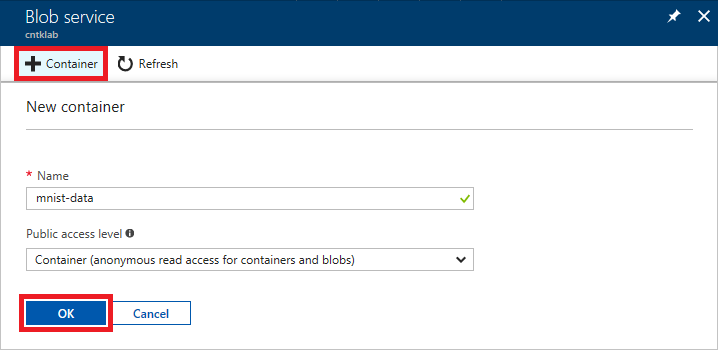
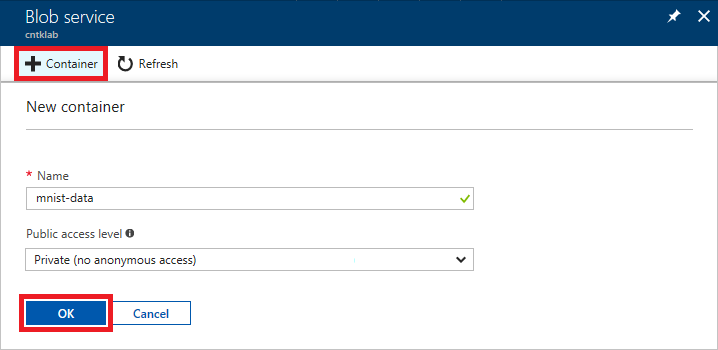
Checked in final draft of second 200 lab

Changed region(s): [[0.0306, 0.7143, 0.4903, 0.7714]]

diff --git a/Neural Networks with CNTK (300)/2 - Process/readme.md b/Neural Networks with CNTK (300)/2 - Process/readme.md
@@ -1,8 +1,8 @@
 ![](Images/header.png)
 
-In the [previous lab](#), you uploaded four files comprising the [MNIST database](http://yann.lecun.com/exdb/mnist/) to Azure blob storage. MNIST is a popular dataset for training and evaluating machine-learning handwriting-recognition models. It contains 60,000 scanned and normalized images of the digits 0 through 9 drawn by high school students. It also includes a set of 10,000 test images for evaluating a model's accuracy.
+In the [previous lab](#), you uploaded four files comprising the [MNIST database](http://yann.lecun.com/exdb/mnist/) to Azure blob storage. MNIST is a popular dataset for training and evaluating machine-learning models that perform handwriting recognition. It contains 60,000 scanned and normalized images of the digits 0 through 9 drawn by high school students. It also includes a set of 10,000 test images for evaluating a model's accuracy.
 
-In this lab, you will prepare the data to be used in a machine-learning model by converting it into a format supported by the [Microsoft Cognitive Toolkit](https://www.microsoft.com/en-us/research/product/cognitive-toolkit/), also known as CNTK. And you will Microsoft's Azure Machine Learning Workbench, a free cross-platform tool for wrangling data and building machine-learning models, to do the conversion.
+In this lab, you will prepare the data to be used in a machine-learning model by converting it into a format supported by the [Microsoft Cognitive Toolkit](https://www.microsoft.com/en-us/research/product/cognitive-toolkit/), also known as CNTK. And you will use Microsoft's Azure Machine Learning Workbench, a free cross-platform tool for wrangling data and building machine-learning models, to do the conversion.
 
 ![](Images/road-map-2.png)
 
@@ -11,9 +11,9 @@ In this lab, you will prepare the data to be used in a machine-learning model by
 
 In this hands-on lab, you will learn how to:
 
-- tk
-- tk
-- tk
+- Write Python code to wrangle data stored in Azure blob storage
+- Execute that code in Docker containers using Azure Machine Learning Workbench
+- Format labeled image data for input to CNTK
 
 <a name="Prerequisites"></a>
 ### Prerequisites ###
@@ -33,15 +33,15 @@ The following are required to complete this hands-on lab:
 This hands-on lab includes the following exercises:
 
 - [Exercise 1: Install Workbench and create a project](#Exercise1)
-- [Exercise 2: Customize the project files](#Exercise2)
-- [Exercise 3: Convert the data into CNTK format](#Exercise3)
+- [Exercise 2: Customize the project](#Exercise2)
+- [Exercise 3: Convert MNIST data to CNTK format](#Exercise3)
 
 Estimated time to complete this lab: **30** minutes.
 
 <a name="Exercise1"></a>
 ## Exercise 1: Install Workbench and create a project ##
 
-TODO: Add introduction.
+In this exercise, you will install Azure Machine Learning Workbench and create a new project to house the files for a machine-learning project.
 
 1. Azure Machine Learning Workbench runs jobs in Docker containers, and as such, it requires that Docker be installed on your computer. If you haven't installed Docker, go to https://www.docker.com/ and download and install [Docker for Windows](https://www.docker.com/docker-windows) or [Docker for Mac](https://www.docker.com/docker-mac). If you are not sure whether Docker is installed on your computer, open a Command Prompt window (Windows) or a terminal window (macOS) and type the following command:
 
@@ -67,8 +67,6 @@ TODO: Add introduction.
 
 1. Open a File Explorer window (Windows) or a Finder window (macOS) and navigate to the directory that you specified in the previous step. Confirm that it contains a subdirectory with the same name as the project. Open the subdirectory and examine its contents. Confirm that it contains a subdirectory named "aml_config" and a pair of Python scripts named **train.py** and **score.py**, as shown below.
 
-	> The "aml_config" directory contains tk.
-
 	![Inspecting the project directory](Images/project-directory.png)
 
 	_Inspecting the project directory_
@@ -76,11 +74,11 @@ TODO: Add introduction.
 The files in the project directory are merely starter files that will need to be modified in order to build a machine-learning model. But before you can build a model, you need to prepare the data that will be used to train it.
 
 <a name="Exercise2"></a>
-## Exercise 2: Customize the project files ##
+## Exercise 2: Customize the project ##
 
-One of the tasks at which Machine Learning Workbench excels is in helping you prepare data for training machine-learning models. For example, its [Derive Column by Example](https://docs.microsoft.com/azure/machine-learning/preview/data-prep-derive-column-by-example) lets you create new feature columns with information derived from the data in other columns, and it uses AI to learn by example so that you do the first few transformations, and it does the rest. It also has features for replacing missing values, trimming strings, and other common data-cleaning operations.
+One of the tasks at which Machine Learning Workbench excels is in helping you prepare data for training machine-learning models. For example, its [Derive Column by Example](https://docs.microsoft.com/azure/machine-learning/preview/data-prep-derive-column-by-example) lets you create new feature columns with information derived from the data in other columns, and it uses AI to learn by example. You do the first few transformations, and it does the rest. It also has features for replacing missing values, trimming strings, and other common data-cleaning operations.
 
-The MNIST data that you uploaded to blob storage in the previous lab doesn't require cleaning in the conventional sense, but it does need to be converted into a format that is compatible with CNTK. In this exercise, you will use Machine Learning Workbench to perform the conversion.
+The MNIST data that you uploaded to blob storage in the previous lab doesn't require cleaning in the conventional sense, but it does need to be converted into a format that is compatible with CNTK. In this exercise, you will write Python scripts to perform the conversion.
 
 1. Return to Machine Learning Workbench and click the folder icon in the ribbon on the left to display all the files in the project. Then expand the treeview to show the files in the "aml_config" directory and click **docker.runconfig**. This file contains configuration information used when the project is executed in a Docker container.
 
@@ -117,7 +115,7 @@ The MNIST data that you uploaded to blob storage in the previous lab doesn't req
 
 	_Copying the connection string_
 
-1. Return to Machine Learning Workbench and replace CONNECTION_STRING on line 12 of **docker.runconfig** with the connection string on the clipboard. This assigns the connection string to an environment variable so it can be retrieved at run-time by Python scripts.
+1. Return to Machine Learning Workbench and replace CONNECTION_STRING on line 12 of **docker.runconfig** with the connection string on the clipboard. This assigns the connection string to an environment variable so it can be retrieved at run-time by scripts executed by Machine Learning Workbench.
 
 1. On line 30 of **docker.runconfig**, change the value of ```PrepareEnvironment``` from false to true:
 
@@ -139,11 +137,29 @@ The MNIST data that you uploaded to blob storage in the previous lab doesn't req
 
 	> You won't be using BrainScript in this lab, but you *will* use it in the next lab when you use CNTK to build a neural network.
 
+	For reference, and in case you want to create a similar Docker image of your own, here is the Dockerfile used to create the ```mlspark-brainscript``` image:
+
+	```dockerfile
+	FROM microsoft/mmlspark:plus-0.7.91
+	WORKDIR /home/mmlspark/
+	USER root
+	ENV PATH=/home/mmlspark/cntk/cntk/bin:$PATH
+	ENV LD_LIBRARY_PATH=/home/mmlspark/cntk/cntk/lib:/home/mmlspark/cntk/cntk/dependencies/lib:$LD_LIBRARY_PATH
+	RUN curl https://cntk.ai/BinaryDrop/CNTK-2-3-Linux-64bit-CPU-Only.tar.gz -o /home/mmlspark/CNTK.tar.gz && \
+	   tar -xzf /home/mmlspark/CNTK.tar.gz && \
+	   chown -R mmlspark:mmlspark cntk
+	USER mmlspark
+	```
+
 1. Use the **File** > **Save** command to save the modified **docker.compute** file.
 
-1. Right-click (on a Mac, Control-click) inside Machine Learning Workbench's project panel and use the **New Item** command to add a file named **mnist_utils.py** to the project.
+1. Click the **+** sign in the project panel and use the **New Item** command to add a file named **mnist_utils.py** to the project.
 
-1. Open **mnist_utils.py** for editing in Machine Learning Workbench and paste in the following code:
+	![Adding a file to the project](Images/new-file.png)
+
+	_Adding a file to the project_
+
+1. Open **mnist_utils.py** for editing in Machine Learning Workbench and paste in the following Python code:
 
 	```Python
 	from __future__ import print_function
@@ -221,9 +237,7 @@ The MNIST data that you uploaded to blob storage in the previous lab doesn't req
 
 1. Use the **File** > **Save** command to save the modified **mnist_utils.py** file.
 
-1. Right-click (on a Mac, Control-click) inside Machine Learning Workbench's project panel and use the **New Item** command to add a file named **convert.py** to the project.
-
-1. Open **convert.py** for editing in Machine Learning Workbench and paste in the following code:
+1. Click the **+** sign in the project panel and use the **New Item** command to add a file named **convert.py** to the project. Then open **convert.py** for editing and paste in the following code:
 
 	```Python
 	from __future__ import print_function
@@ -238,6 +252,7 @@ The MNIST data that you uploaded to blob storage in the previous lab doesn't req
 	from datetime import datetime, timedelta
 	
 	block_blob_service = BlockBlobService(connection_string=os.environ['AZ_STORAGE_CONNSTR'])
+	block_blob_service.socket_timeout = 600
 	
 	# Function for getting a SAS URL for blobs
 	def getUrl(blobName):
@@ -279,42 +294,44 @@ The MNIST data that you uploaded to blob storage in the previous lab doesn't req
 The project now contains a Python script that converts the MNIST data in blob storage into CNTK data in blob storage, as well as a Python script containing helper functions used by that script. It also contains a Docker configuration file that holds the connection string that the scripts use to access the storage account, and a Docker compute file that specifies the base Docker image to use for the container in which the scripts run. Now it's time to put these scripts to work.
 
 <a name="Exercise3"></a>
-## Exercise 3: Convert the data into CNTK format ##
+## Exercise 3: Convert MNIST data to CNTK format ##
 
-TODO: Add introduction.
+In this exercise, you will run the **convert.py** script that you created in the previous exercise in a local Docker container using Machine Learning Workbench to convert MNIST data from its native format to CNTK format. Then you will examine the output in blob storage and see what CNTK-formatted data looks like. 
 
-1. In Machine Learning Workbench, select **Docker** from the Run Configuration drop-down, and **convert.py** from the Script drop-down to configure Workbench to run **convert.py** in a Docker container. Then click the **Run** button.
-
-	> The first run may take a few minutes because Machine Learning Workbench has to download the base Docker image from Docker Hub. Subsequent runs will be much faster.
+1. In Machine Learning Workbench, select **Docker** from the Run Configuration drop-down and **convert.py** from the Script drop-down to configure Workbench to run **convert.py** in a Docker container. Then click the **Run** button.
 
 	![Running convert.py](Images/run-scripts.png)
 
 	_Running convert.py_
 
-1. Wait for the job to complete.
+1. Wait for the job to complete. The first run may take a few minutes because Machine Learning Workbench has to download the base Docker image from Docker Hub. Subsequent runs will be much faster.
 
-	![tk](Images/tk.png)
+	![Successful run](Images/run-completed.png)
 
-	_tk_
+	_Successful run_
 
-1. Return to the the storage account that you created in the previous lab in the [Azure Portal](https://portal.azure.com). Confirm that the storage account now contains *two* containers: the container you created in the previous lab, and a container named "cntk-data" created by the **convert.py** script.
+1. Return to the storage account that you created in the previous lab in the [Azure Portal](https://portal.azure.com). Confirm that the storage account now contains *two* containers: the "mnist-data" container you created in the previous lab, and a container named "cntk-data" that holds the output from **convert.py**.
 
-	![tk](Images/tk.png)
+	![Containers for converted and unconverted data](Images/two-containers.png)
 
-	_tk_
+	_Containers for converted and unconverted data_
 
-1. Open the "cntk-data" container and confirm that it contains tk blobs.
+1. Open the "cntk-data" container and confirm that it contains two blobs. One contains CNTK-formatted data for training a model, and the other contains CNTK-formatted data for testing the model.
 
-	![tk](Images/tk.png)
+	![Blobs containing CNTK input](Images/cntk-files.png)
 
-	_tk_
+	_Blobs containing CNTK input_
 
-The raw MNIST data has been converted into CNTK format and is ready to be used to train a CNTK neural network. That sets the stage for the next lab, in which you will use CNTK and Machine Learning Workbench to build a neural network.
+If you are curious to know what data formatted for input to CNTK looks like, download the blob named **Test-28x28_cntk_text.txt** and open it in your favorite text editor. The blob contains one row for each digitized image. Each row contains a section named "labels" and a section named "features." The "labels" data denotes the digit represented by the image. The first value is 1 or 0 for 0, the second is 1 or 0 for 1, and so on. For the digit 7, all of the values in "labels" will be 0 except the 8th, which will contain a 1. The "features" data represents the image itself. There are 784 values, one for each pixel in a 28 x 28 array, and each value is a grayscale value from 0 to 255, with 0 representing empty space and 255 representing filled space ("ink").
+
+![CNTK-formatted data](Images/cntk-data.png)
+
+_CNTK-formatted data_
 
 <a name="Summary"></a>
 ## Summary ##
 
-TODO: Add summary.
+The raw MNIST data has been converted into CNTK format and is ready to be used to train a neural network. This sets the stage for the next lab in this series — [Using the Microsoft Cognitive Toolkit (CNTK) to Build Neural Networks, Part 3](#) — in which you will use CNTK and Machine Learning Workbench to build a neural network.
 
 ---
 

diff --git a/Neural Networks with CNTK (300)/1 - Ingest/readme.md b/Neural Networks with CNTK (300)/1 - Ingest/readme.md
@@ -74,7 +74,7 @@ The [Azure Portal](https://portal.azure.com) allows you to perform basic storage
 
 1. The storage account currently has no containers. Before you create a blob, you must create a container to store it in. A container is similar to a folder in a file system. A storage account can have an unlimited number of containers, and a container can store an unlimited number of blobs. Container names must be from 3 to 63 characters in length and may contain numbers, dashes, and lowercase letters.
 
-	Click **+ Container** to create a new container. Enter "mnist-data" as the container name, and select **Container** as the **Public access level** so that blobs stored in this container are public rather than private. Then click **OK**.
+	Click **+ Container** to create a new container. Enter "mnist-data" as the container name, and accept the default **Public access level** of **Private** so blobs stored in this container are not publicly accessible. Then click **OK**.
 
     ![Creating a container](Images/create-container.png)
 
